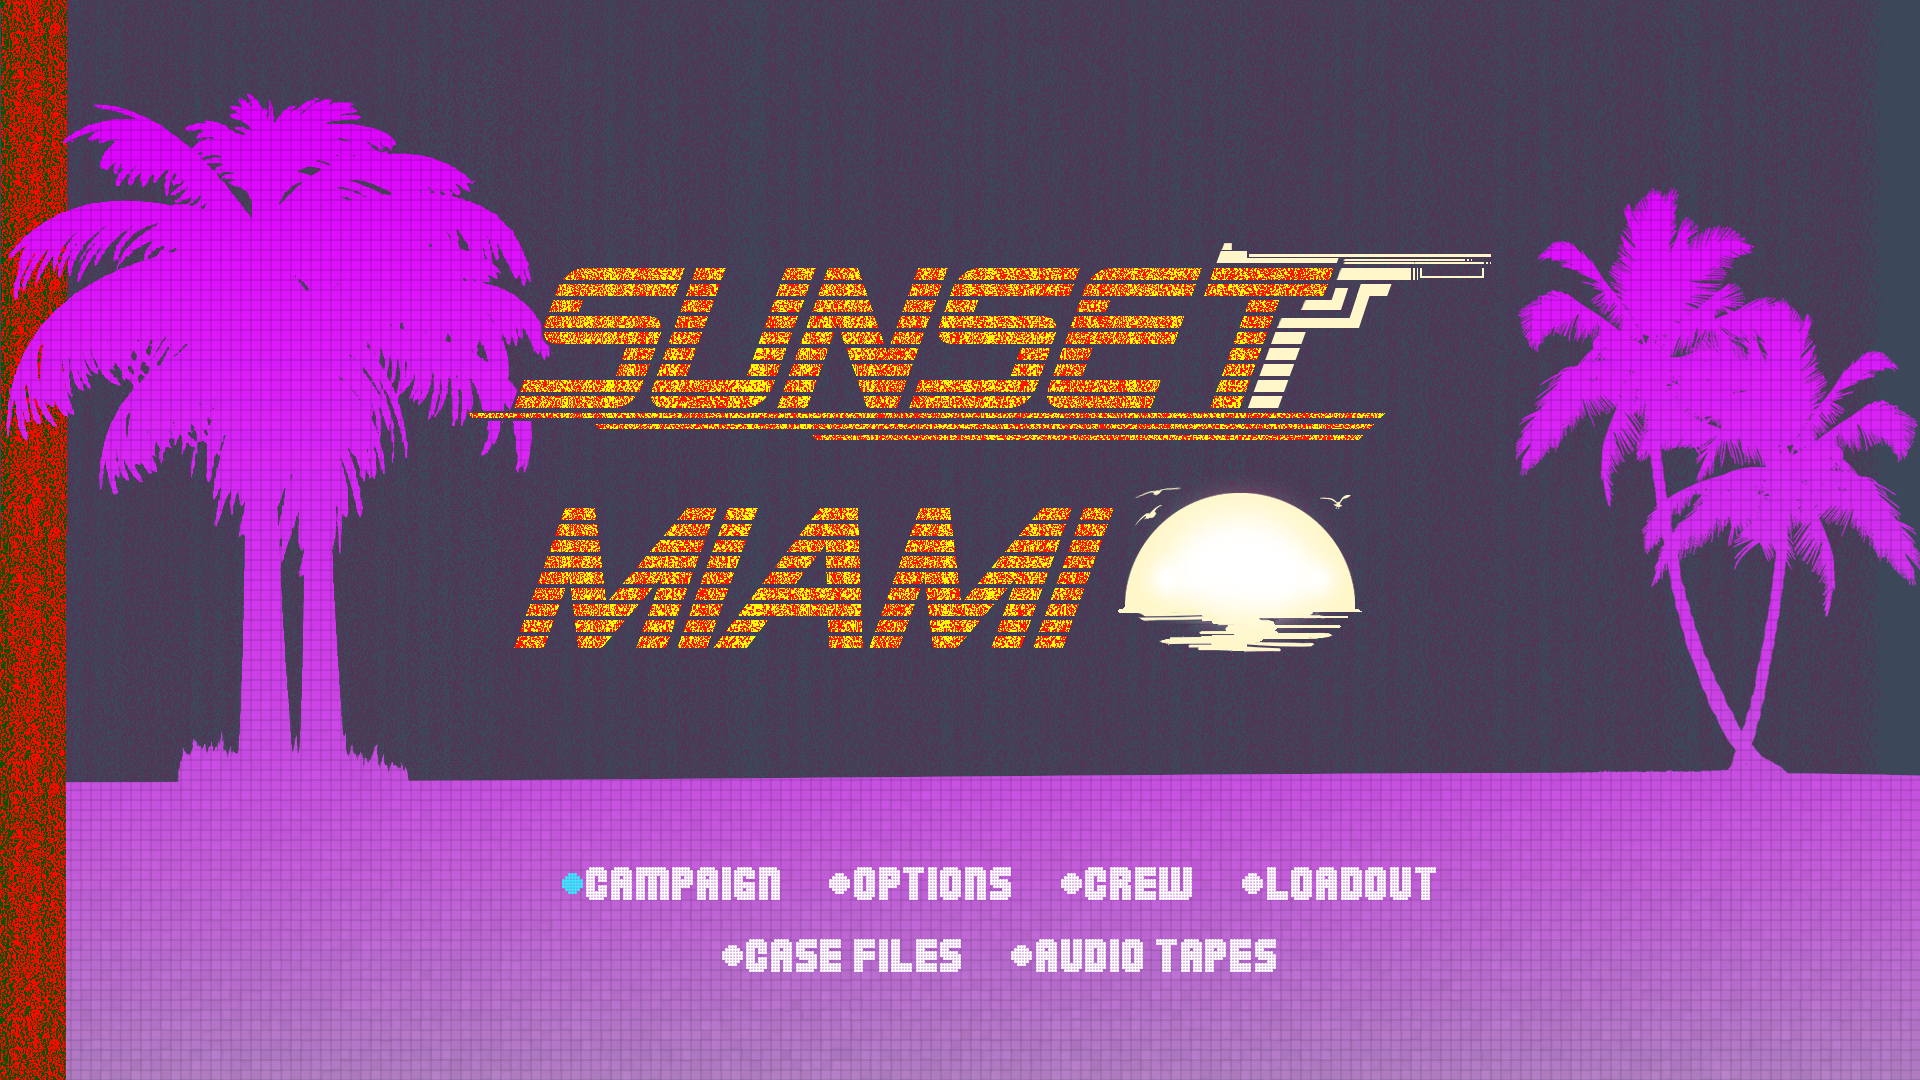
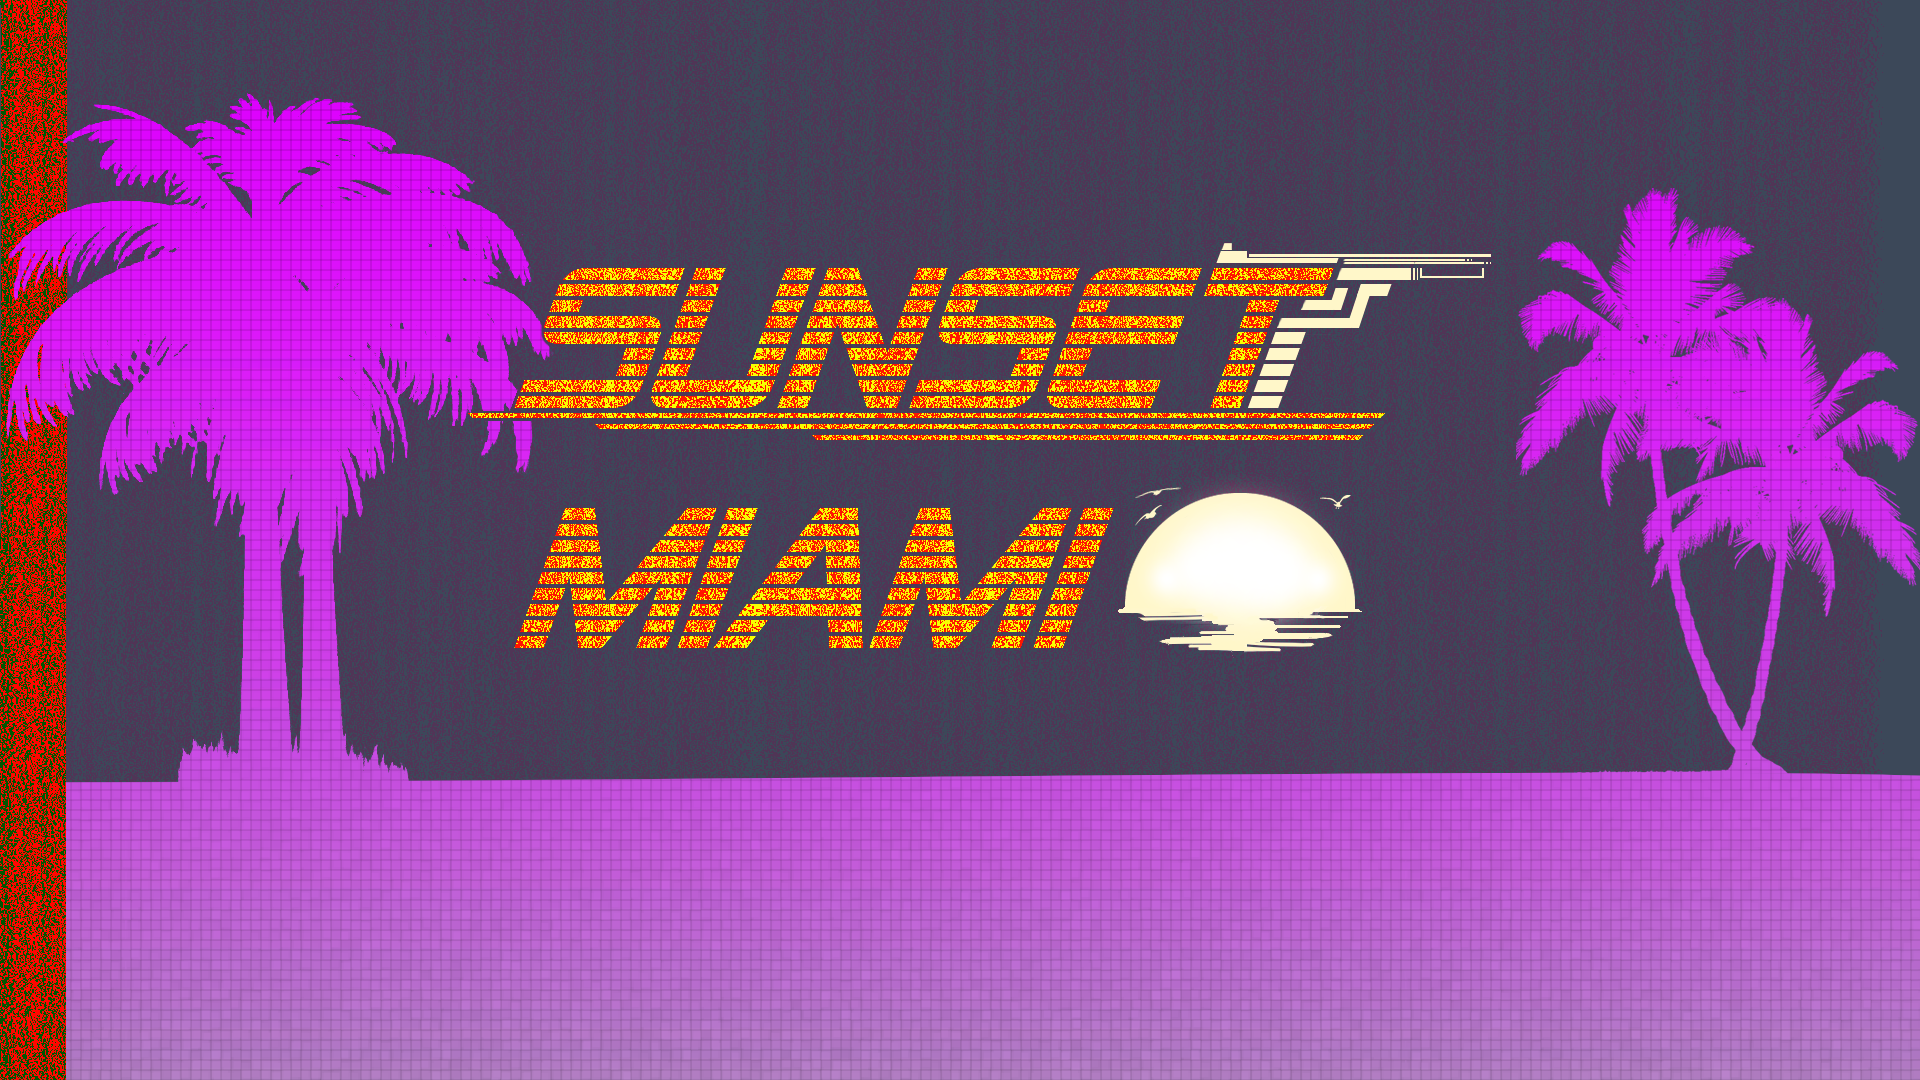
Quick update
sleepy

Changed region(s): [[0.2812, 0.7944, 0.75, 0.9167]]

diff --git a/css/index.css b/css/index.css
@@ -26,7 +26,7 @@
 
 
 html { 
-  background: url('../images/Sunsets.png') no-repeat center center fixed; 
+  background: url('../images/Title-Bold.png') no-repeat center center fixed; 
   -webkit-background-size: cover;
   -moz-background-size: cover;
   -o-background-size: cover;
